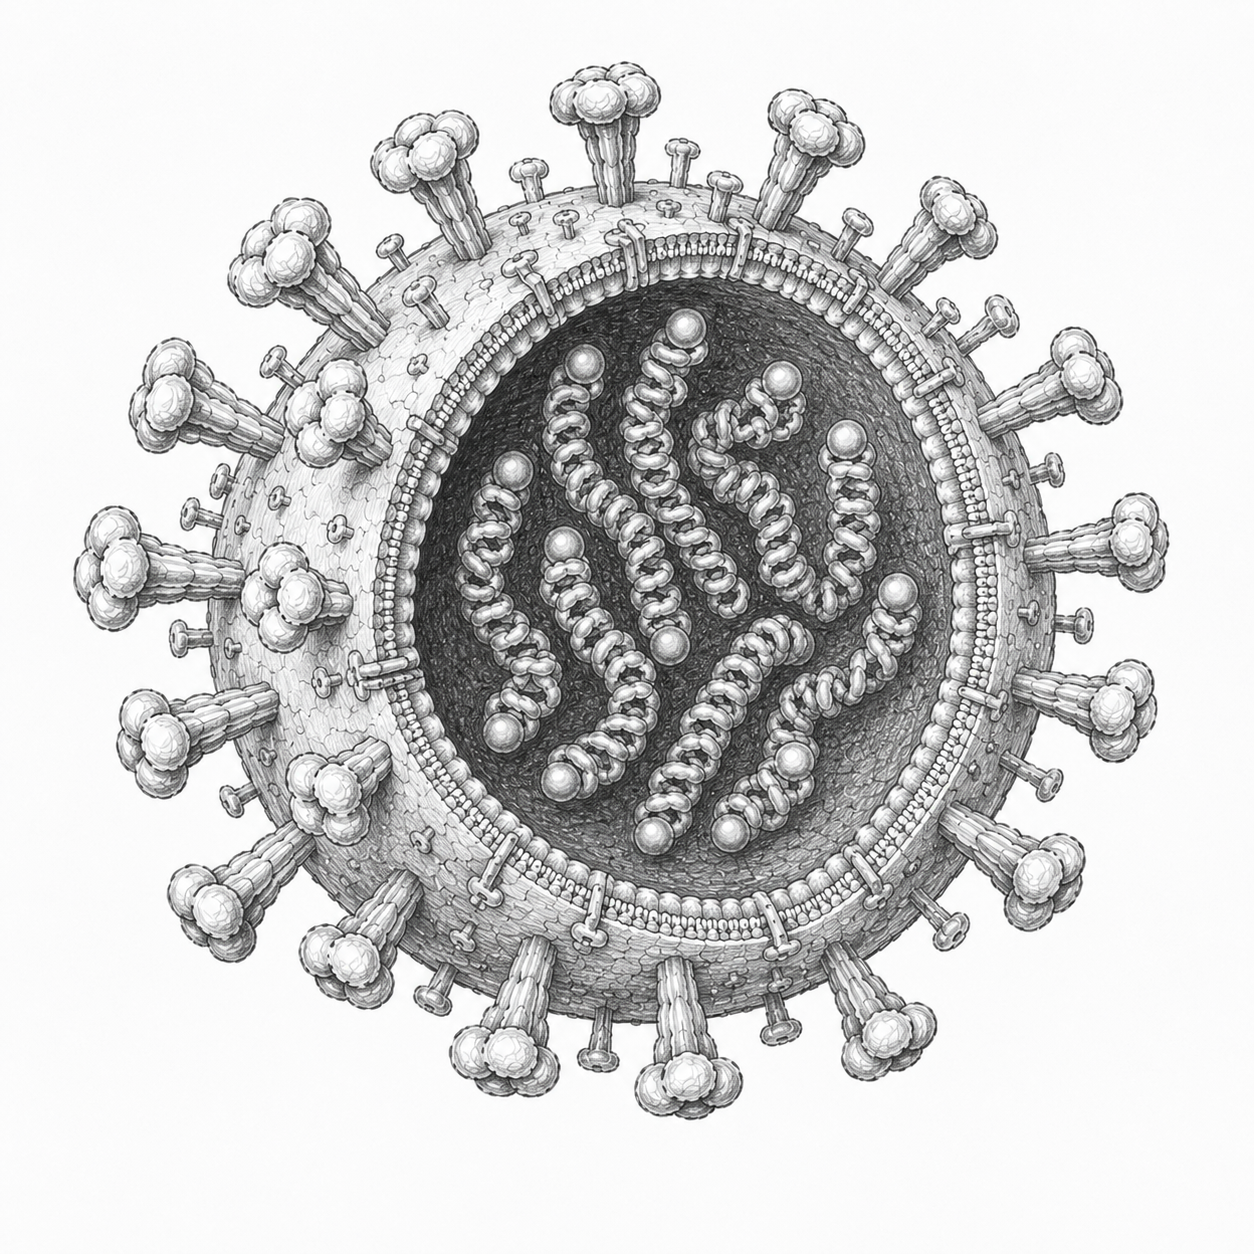
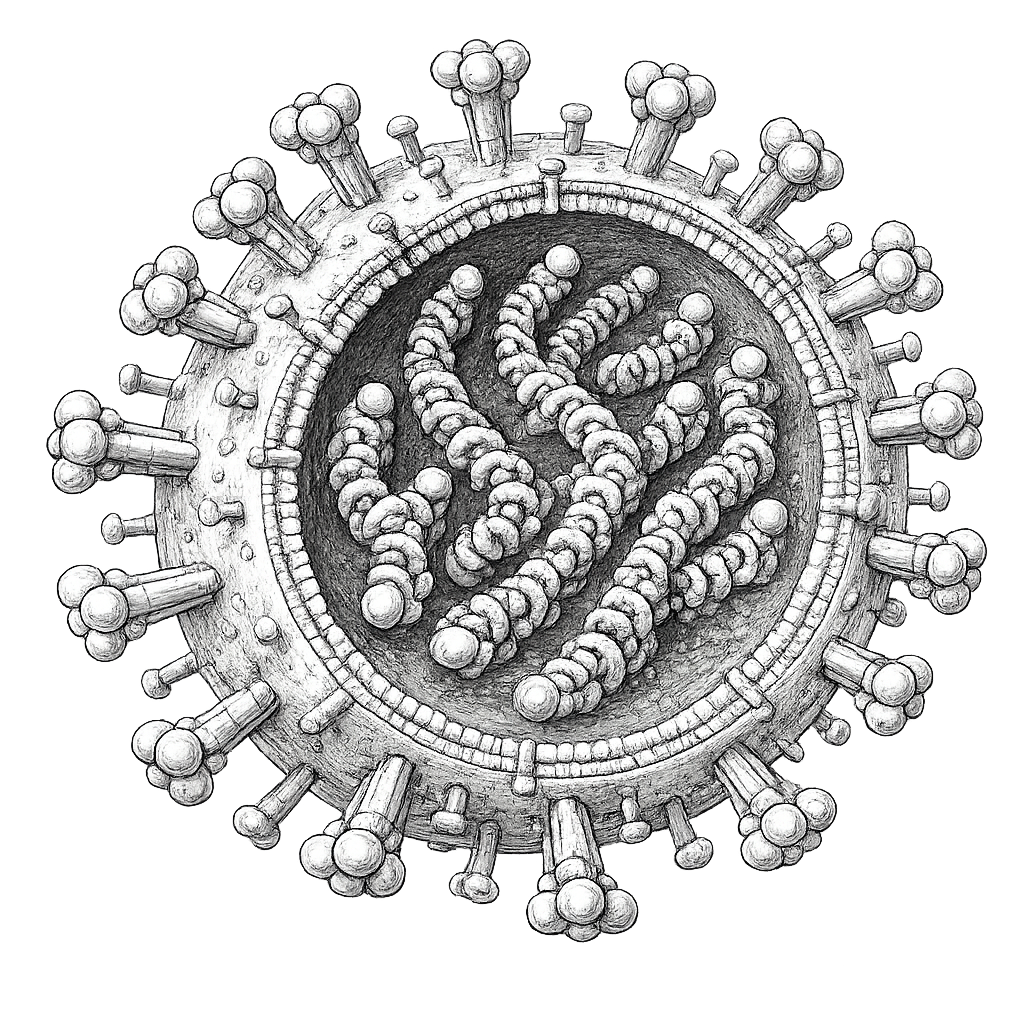
UI: update hero image, make larger on page

diff --git a/site/_layouts/home.html b/site/_layouts/home.html
@@ -6,10 +6,10 @@ bodyClass: "page-home"
 <div class="intro">
   <div class="container">
     <div class="row justify-content-start align-items-center">
-      <div class="col-12 col-md-6 col-lg-5 order-2 order-md-1">
+      <div class="col-12 col-md-5 order-2 order-md-1">
         {{ content }}
       </div>
-      <div class="col-12 col-md-6 col-lg-5 offset-lg-1 order-1 order-md-2 text-center mb-4 mb-md-0">
+      <div class="col-12 col-md-7 order-1 order-md-2 text-center mb-4 mb-md-0">
         <img src="{{ '/images/flu-virion-pencil-drawing.png' | relative_url }}" alt="Influenza virion illustration" class="hero-image" />
       </div>
     </div>

diff --git a/site/_sass/components/_resource.scss b/site/_sass/components/_resource.scss
@@ -59,7 +59,7 @@
 .hero-image {
   max-width: 100%;
   height: auto;
-  max-height: 360px;
+  max-height: 500px;
 }
 
 // Header search box
